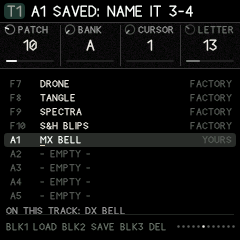
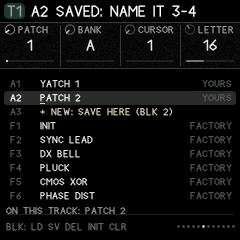
WEFT LIBRARY: SAVE always works; INIT and CLEAR
SAVE refused unless the cursor was on a bank slot, and the list began
with the factory patches, so a patch made from the default one (the
cursor on F1) could not be saved without scrolling past them all. Now
the list starts with your patches, then + NEW (the first empty slot),
then the factory ones. SAVE on one of yours overwrites it (twice);
anywhere else it saves into the first empty slot at once, never over
anything, and the cursor moves onto it for naming. A patch still
named after a factory one is saved as PATCH n.

Black key 4: INIT (the INIT patch), black key 5: CLEAR (no blocks);
each asks twice.

Claude-Session: https://claude.ai/code/session_01BwzGhPZLDZkrxZk5dy3Yyf

diff --git a/web/emu/index.html b/web/emu/index.html
@@ -818,7 +818,7 @@ const GUIDE = {
 <tr><td>WEFT PATCH</td><td>the blocks and their cords; KNOB 1 picks a block, 2 its type, 3–4 input A and its amount</td></tr>
 <tr><td>WEFT BLOCK</td><td>input B and its amount, then the block's two settings</td></tr>
 <tr><td>WEFT MAP</td><td>which setting each of PLAY's knobs turns; the output block; LEVEL</td></tr>
-<tr><td>WEFT LIBRARY</td><td>your patches and the factory ones: KNOB 1 picks, black key 1 loads, 2 saves into a bank slot, 3 deletes (press twice); KNOB 3–4 rename</td></tr></table>
+<tr><td>WEFT LIBRARY</td><td>your patches, + NEW, then the factory ones: KNOB 1 picks, black key 1 loads, 2 saves (into a new slot, unless on one of yours: then it overwrites, press twice), 3 deletes, 4 INIT, 5 CLEAR (press twice); KNOB 3–4 rename</td></tr></table>
 <p>Twelve blocks a patch: PHASE, WAVE (oscillators) · SLOPE, CYCLE, SLEW (rise and fall) · LP, BP, HP · ADD, MULT, MIX, MIN, MAX, FOLD · COMP, AND, OR, XOR, FLIP · DELAY, BANDS, HOLD · DUST, TICK (particles, clocks) · RING and the six-mode bodies SKIN, BAR, PLATE, BELL, HARMS, FIXED (struck resonators) · SAT, ABS, DIFFUSE, CHAOS (for loops) · STRING, CRUSH, EDGE · SW 1&gt;4, SW 4&gt;1 (sequential switches; SW 1-4 in the input menus) · FOLLOW, SHAPE, CHEBY, FORMANT, VOCODER, RINGMOD, NOISE, RUNGLER, LISSA (its Y: LIS Y in the menus) · CLK OUT, MOD OUT (a clock for the sequencers, a source for the matrix). Inputs also take PITCH, GATE, TRIG, VEL, NOISE, the LFOs, the wheel or a constant. On WEFT BLOCK, black key 1 sets what input B does: its own job, or moving the block's second setting (B MOVES). PRESETS on the WEFT pages walks the factory patches. The manual has <a href="#" onclick="openManual('#weft-a-voice-you-patch'); return false">every block, step by step</a>.</p>`,
   "Steps": `<p>On SEQ the white keys are 16 steps (OCT± pages through 64). Tap a key to switch a step on or off; hold it and turn the knobs to edit it: note, velocity, length, chance, micro timing, ratchets, condition, library shape, microcut, tie, graph cords.</p>
 <p>The page after STEPS is <b>TEMPO</b>: the master tempo and swing (the same values as GLO › CLOCK, so turning either moves both), with the track's LENGTH and RATE.</p>

diff --git a/firmware/app/rv_ui.c b/firmware/app/rv_ui.c
@@ -323,7 +323,7 @@ static int track_has_pattern_steps(int t)          /* the current pattern only *
 }
 /* an action that destroys steps: the first try only warns; the same action again, after a pause
  * (so one quick spin of a knob can't do it) and within 2.5 s, does it */
-enum { CONF_KIND = 1, CONF_MODE, CONF_CLEAR, CONF_PRESET, CONF_PASTE, CONF_STRESS, CONF_LDEL, CONF_LCLR, CONF_SCENE, CONF_WSAVE = 40, CONF_WDEL };   /* (CONF_SCENE + the scene) */
+enum { CONF_KIND = 1, CONF_MODE, CONF_CLEAR, CONF_PRESET, CONF_PASTE, CONF_STRESS, CONF_LDEL, CONF_LCLR, CONF_SCENE, CONF_WSAVE = 40, CONF_WDEL, CONF_WINIT, CONF_WCLR };   /* (CONF_SCENE + the scene) */
 static int confirmed(int what, const char *warn)
 {
     uint32_t now = plat_ms(), dt = now - ui.conf_at;
@@ -702,18 +702,37 @@ static int other_loop_track(int t)                    /* another track is LOOP a
     return 0;
 }
 
-/* WEFT LIBRARY: the factory patches, then the bank's WEFT sounds and its empty slots (other sounds left out).
- * An entry: 0..WF_NPRESETS-1 a factory patch, 100 + i bank slot i */
+/* WEFT LIBRARY: your patches (the bank's WEFT sounds), then NEW (the first empty slot, to save into), then the
+ * factory patches. An entry: 0..WF_NPRESETS-1 a factory patch, 100 + i bank slot i, WL_NEW */
+#define WL_NEW 250
 static void wl_name_set(int t, const char *n);
+static int wl_free(void)
+{
+    int i;
+    for (i = 0; i < 32; i++)
+        if (!rv_bank_used(i))
+            return i;
+    return -1;
+}
 static __attribute__((noinline)) int wl_list(uint8_t *out)
 {
     int i, n = 0;
+    for (i = 0; i < 32; i++)
+        if (rv_bank_used(i) && rv_bank_kind(i) == KIND_WEFT)
+            out[n++] = (uint8_t)(100 + i);
+    if (wl_free() >= 0)
+        out[n++] = WL_NEW;
     for (i = 0; i < rv_weft_presets(); i++)
         out[n++] = (uint8_t)i;
-    for (i = 0; i < 32; i++)
-        if (!rv_bank_used(i) || rv_bank_kind(i) == KIND_WEFT)
-            out[n++] = (uint8_t)(100 + i);
     return n;
+}
+static void wl_point(int e)                          /* the cursor onto entry e */
+{
+    uint8_t l[64];
+    int n = wl_list(l), i;
+    for (i = 0; i < n; i++)
+        if (l[i] == e)
+            ui.wl_sel = (uint8_t)i;
 }
 static int wl_entry(void)
 {
@@ -1989,41 +2008,49 @@ static void wl_name_set(int t, const char *n)
 }
 static __attribute__((noinline)) void wl_do(int act)
 {
-    int t = ui.track, e = wl_entry(), slot = e - 100;
+    int t = ui.track, e = wl_entry(), slot = e >= 100 && e < WL_NEW ? e - 100 : -1, k;
     char b[32];
     bank_keep();
     if (act == 0) {                                   /* LOAD */
-        if (e < 100) {
+        if (e == WL_NEW) {
+            msg("NEW: SAVE THIS TRACK'S PATCH HERE");
+            return;
+        }
+        if (slot < 0) {
             weft_preset_apply(t, e);
             ui.wf_pre[t] = (int8_t)e;
             wl_name_set(t, rv_weft_preset_name(e));
-        } else if (rv_bank_used(slot)) {
+        } else {
             if (rv_bank_apply(t, slot))
                 return;
             ui.wf_pre[t] = -1;
             wl_name_set(t, rv_bank_name(slot));
-        } else {
-            msg("AN EMPTY SLOT: NOTHING TO LOAD");
-            return;
         }
         b[0] = 0;
         sx_cat(b, "LOADED ");
         sx_cat(b, ui.wf_name[t]);
         msg(b);
-    } else if (act == 1) {                            /* SAVE */
-        if (e < 100) {
-            msg("SAVE INTO ONE OF YOUR SLOTS (BELOW)");
+    } else if (act == 1) {                            /* SAVE: onto one of yours (twice), else into the first empty slot */
+        int fresh = slot < 0;
+        if (fresh)
+            slot = wl_free();
+        if (slot < 0) {
+            msg("BANK FULL: DELETE ONE, OR KNOB 2: BANK");
             return;
         }
-        if (rv_bank_used(slot) && !confirmed(CONF_WSAVE, "AGAIN: OVERWRITE IT"))
+        if (!fresh && !confirmed(CONF_WSAVE, "AGAIN: OVERWRITE IT"))
             return;
-        if (!ui.wf_name[t][0] || (ui.wf_pre[t] >= 0 && !rv_bank_used(slot))) {   /* (a new name, from the slot) */
+        for (k = 0; k < rv_weft_presets(); k++)       /* (still a factory patch's name: a name of its own) */
+            if (!sx_cmp(ui.wf_name[t], rv_weft_preset_name(k)))
+                ui.wf_name[t][0] = 0;
+        if (!ui.wf_name[t][0]) {
             b[0] = 0;
             sx_int(b + sx_cat(b, "PATCH "), slot + 1);
-            if (!ui.wf_name[t][0])
-                wl_name_set(t, b);
+            wl_name_set(t, b);
         }
         if (rv_bank_store(t, slot, ui.wf_name[t]) == 0) {
+            wl_point(100 + slot);                     /* (on it: KNOB 3-4 name it) */
+            ui.wl_cursor = 0;
             b[0] = 0;
             sx_int(b + sx_cat(b, bank_letters[rv_bank_current()]), slot + 1);
             sx_cat(b, " SAVED: NAME IT 3-4");
@@ -2031,8 +2058,8 @@ static __attribute__((noinline)) void wl_do(int act)
             ui.wf_pre[t] = -1;
         } else
             msg("SAVE FAILED");
-    } else {                                          /* DELETE */
-        if (e < 100 || !rv_bank_used(slot)) {
+    } else if (act == 2) {                            /* DELETE */
+        if (slot < 0) {
             msg("ONLY YOUR OWN PATCHES DELETE");
             return;
         }
@@ -2040,6 +2067,21 @@ static __attribute__((noinline)) void wl_do(int act)
             return;
         rv_bank_clear(slot);
         msg("DELETED");
+    } else if (act == 3) {                            /* INIT: the INIT patch (a saw, a low pass, an envelope) */
+        if (!confirmed(CONF_WINIT, "AGAIN: START FROM INIT"))
+            return;
+        weft_preset_apply(t, 0);
+        ui.wf_pre[t] = 0;
+        wl_name_set(t, rv_weft_preset_name(0));
+        msg("INIT: A SAW, A LOW PASS, AN ENVELOPE");
+    } else {                                          /* CLEAR: no blocks at all */
+        if (!confirmed(CONF_WCLR, "AGAIN: CLEAR EVERY BLOCK"))
+            return;
+        __builtin_memset(&rv.weft[t], 0, sizeof rv.weft[t]);
+        ui.wf_pre[t] = -1;
+        ui.wf_blk = 0;
+        wl_name_set(t, "");
+        msg("EMPTY: MAKE BLOCKS ON WEFT PATCH");
     }
 }
 
@@ -2663,7 +2705,7 @@ static void key_event(int k, int on)
         return;
     }
     /* --- WEFT LIBRARY: black keys 1-3 load, save, delete; the rest play --- */
-    if (cur_page()->pic == PIC_WEFTLIB && bi >= 0 && bi < 3) {
+    if (cur_page()->pic == PIC_WEFTLIB && bi >= 0 && bi < 5) {
         if (on)
             wl_do(bi);
         return;
@@ -3333,7 +3375,7 @@ static void draw_footer(void)
     case PR_SLOT: hint = ui.save_confirm ? (ui.save_action == 6 ? "PRESS SAVE AGAIN TO CLEAR IT" : "PRESS SAVE AGAIN TO CONFIRM")
                        : "PRESETS: SLOT  SAVE: DO IT"; break;
     case PR_LEARN: hint = "PRESETS: PICK ONE"; break;
-    case PR_WLIB: hint = "BLK1 LOAD BLK2 SAVE BLK3 DEL"; break;
+    case PR_WLIB: hint = "BLK: LD SV DEL INIT CLR"; break;
     case PR_WEFT:
         hint = pg->pic == PIC_WEFTBLK ? "BLK1: WHAT B MOVES" : pg->pic == PIC_WEFTMAP ? "THESE KNOBS ON WEFT PLAY" : "PRESETS: PATCHES  KEYS: PLAY";
         break;
@@ -5069,10 +5111,17 @@ static __attribute__((noinline)) void pic_weftlib(void)
     if (top < 0)
         top = 0;
     for (i = 0; i < 9 && top + i < n; i++) {
-        int e = l[top + i], y = 78 + i * 14, on = top + i == sel, mine = e >= 100;
-        uint16_t c = on ? C_WHITE : mine && !rv_bank_used(e - 100) ? C_DIM : C_INK;
+        int e = l[top + i], y = 78 + i * 14, on = top + i == sel, mine = e >= 100 && e < WL_NEW;
+        uint16_t c = on ? C_WHITE : C_INK;
         if (on)
             g_rbox(4, y - 1, 232, 14, 3, g_mix(C_PANEL, C_INK, 0.12f), 1);
+        if (e == WL_NEW) {                            /* NEW: where SAVE puts a patch of your own */
+            b[0] = 0;
+            sx_int(b + sx_cat(b, bank_letters[rv_bank_current()]), wl_free() + 1);
+            g_text(10, y + 1, &FONT_T, b, on ? C_WHITE : C_DIM);
+            g_text(40, y + 1, &FONT_T, "+ NEW: SAVE HERE (BLK 2)", on ? C_WHITE : C_TEAL);
+            continue;
+        }
         b[0] = 0;
         if (mine)
             sx_int(b + sx_cat(b, bank_letters[rv_bank_current()]), e - 99);
@@ -5091,8 +5140,8 @@ static __attribute__((noinline)) void pic_weftlib(void)
                 g_hline(cx, y + 11, 5, C_TEAL);
             }
         } else
-            g_text(40, y + 1, &FONT_T, mine ? "- EMPTY -" : rv_weft_preset_name(e), c);
-        g_text_r(232, y + 1, &FONT_T, mine ? (rv_bank_used(e - 100) ? "YOURS" : "") : "FACTORY", C_DIM);
+            g_text(40, y + 1, &FONT_T, rv_weft_preset_name(e), c);
+        g_text_r(232, y + 1, &FONT_T, mine ? "YOURS" : "FACTORY", C_DIM);
     }
     b[0] = 0;
     sx_cat(b, "ON THIS TRACK: ");

diff --git a/README.md b/README.md
@@ -444,12 +444,13 @@ All signals run about −1 to +1; SLOPE and SLEW run 0 to 1 (envelopes). An inpu
 
 <p align="center"><img src="docs/manual/weft-library.png" alt="WEFT LIBRARY" width="240"></p>
 
-The last WEFT page (**SELECT** on from WEFT MAP) is the track's patch library. The list holds the factory patches (**F1–F26**) and then the slots of the current sound bank (**A1…**): the empty ones and those holding WEFT patches (slots holding other sounds are left out). Your patches are kept as WEFT sounds in the sound banks, so they travel with **Send to FM-1** and the emulator's sound files, and are kept when you load another project.
+The last WEFT page (**SELECT** on from WEFT MAP) is the track's patch library. The list holds **your patches** first (the WEFT sounds in the current sound bank, **A1…**), then **+ NEW** (the bank's first empty slot), then the factory patches (**F1–F26**). Your patches are kept as WEFT sounds in the sound banks, so they travel with **Send to FM-1** and the emulator's sound files, and are kept when you load another project.
 
 - **KNOB 1 (PATCH)** (or PRESETS) moves through the list; **KNOB 2 (BANK)** picks bank A–D.
 - **Black key 1: LOAD** the highlighted patch onto the track.
-- **Black key 2: SAVE** the track's patch into the highlighted bank slot (it is named *PATCH n* at first). Saving over one of yours asks you to press it again.
+- **Black key 2: SAVE** the track's patch. On one of yours it overwrites it (press twice); anywhere else (**+ NEW**, or a factory patch, as when you have just made something from the default patch) it goes into the first empty slot at once, named *PATCH n*, and the cursor moves onto it so KNOB 3–4 can name it.
 - **Black key 3: DELETE** the highlighted patch of yours; press it again to confirm. Factory patches can't be deleted.
+- **Black key 4: INIT** starts the track again from the INIT patch (a saw, a low pass, an envelope); **black key 5: CLEAR** empties every block, to build from nothing. Each asks for a second press.
 - **KNOB 3 (CURSOR)** and **KNOB 4 (LETTER)** rename the highlighted patch of yours, a letter at a time (the cursor is underlined); the name is kept a moment after you stop turning.
 - The white keys still play the track. **ON THIS TRACK** at the bottom names the patch the track is playing.
 
@@ -1536,7 +1537,7 @@ The full walkthrough is [GLITCH LOOPER, step by step](#step-by-step).
 | Loop: sequence it | SEQ › GLITCH TRIGS: KNOB 2 = REC or PLAY, tap a step; hold a step + tap another for a section |
 | Effects back from the looper | GLITCH INPUT, KNOB 4 (LOOPER) = OFF, or KIND back |
 | Patch a voice from blocks | EDIT › SOUND, KIND = WEFT; WEFT PATCH: KNOB 1 block, 2 type, 3–4 input A; WEFT BLOCK: input B, settings |
-| Load, save, delete WEFT patches | WEFT LIBRARY: KNOB 1 picks, black key 1 load, 2 save, 3 delete (twice); KNOB 3–4 rename |
+| Load, save, delete WEFT patches | WEFT LIBRARY: KNOB 1 picks, black key 1 load, 2 save (into a new slot unless on one of yours), 3 delete, 4 INIT, 5 CLEAR (twice each); KNOB 3–4 rename |
 | WEFT: input B moves a setting | WEFT BLOCK: black key 1 |
 | WEFT: a sequential switch | SW 1>4 (outs SW 1–4 in the input menus) or SW 4>1 (A: the first of four in a row) |
 | A WEFT patch clocks a sequencer | CLK OUT in the patch; that track's TRACK › CLOCK = WEFT |
